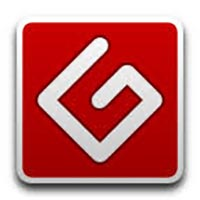
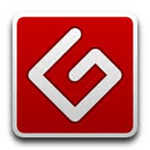
Made images smaller
Inlined Font Awesome
Added Aria Labels to social links

diff --git a/assets/css/main.css b/assets/css/main.css
@@ -26,6 +26,62 @@ img[data-srcset] {
   margin: auto; }
 
 @font-face {
+  font-family: "Font Awesome 5 Brands";
+  font-style: normal;
+  font-weight: normal;
+  font-display: auto;
+  src: url(https://use.fontawesome.com/releases/v5.8.1/webfonts/fa-brands-400.eot);
+  src: url(https://use.fontawesome.com/releases/v5.8.1/webfonts/fa-brands-400.eot#iefix) format("embedded-opentype"), url(https://use.fontawesome.com/releases/v5.8.1/webfonts/fa-brands-400.woff2) format("woff2"), url(https://use.fontawesome.com/releases/v5.8.1/webfonts/fa-brands-400.woff) format("woff"), url(https://use.fontawesome.com/releases/v5.8.1/webfonts/fa-brands-400.ttf) format("truetype"), url(https://use.fontawesome.com/releases/v5.8.1/webfonts/fa-brands-400.svg#fontawesome) format("svg"); }
+@font-face {
+  font-family: "Font Awesome 5 Free";
+  font-style: normal;
+  font-weight: 400;
+  font-display: auto;
+  src: url(https://use.fontawesome.com/releases/v5.8.1/webfonts/fa-regular-400.eot);
+  src: url(https://use.fontawesome.com/releases/v5.8.1/webfonts/fa-regular-400.eot#iefix) format("embedded-opentype"), url(https://use.fontawesome.com/releases/v5.8.1/webfonts/fa-regular-400.woff2) format("woff2"), url(https://use.fontawesome.com/releases/v5.8.1/webfonts/fa-regular-400.woff) format("woff"), url(https://use.fontawesome.com/releases/v5.8.1/webfonts/fa-regular-400.ttf) format("truetype"), url(https://use.fontawesome.com/releases/v5.8.1/webfonts/fa-regular-400.svg#fontawesome) format("svg"); }
+@font-face {
+  font-family: "Font Awesome 5 Free";
+  font-style: normal;
+  font-weight: 900;
+  font-display: auto;
+  src: url(https://use.fontawesome.com/releases/v5.8.1/webfonts/fa-solid-900.eot);
+  src: url(https://use.fontawesome.com/releases/v5.8.1/webfonts/fa-solid-900.eot#iefix) format("embedded-opentype"), url(https://use.fontawesome.com/releases/v5.8.1/webfonts/fa-solid-900.woff2) format("woff2"), url(https://use.fontawesome.com/releases/v5.8.1/webfonts/fa-solid-900.woff) format("woff"), url(https://use.fontawesome.com/releases/v5.8.1/webfonts/fa-solid-900.ttf) format("truetype"), url(https://use.fontawesome.com/releases/v5.8.1/webfonts/fa-solid-900.svg#fontawesome) format("svg"); }
+@font-face {
+  font-family: 'Material Icons';
+  font-style: normal;
+  font-weight: 400;
+  src: url(https://fonts.gstatic.com/s/materialicons/v48/flUhRq6tzZclQEJ-Vdg-IuiaDsNc.woff2) format("woff2"); }
+.fab, .fas {
+  -moz-osx-font-smoothing: grayscale;
+  -webkit-font-smoothing: antialiased;
+  display: inline-block;
+  font-style: normal;
+  font-variant: normal;
+  text-rendering: auto;
+  line-height: 1; }
+
+.fa-bars:before {
+  content: "\f0c9"; }
+
+.fa-behance-square:before {
+  content: "\f1b5"; }
+
+.fa-github:before {
+  content: "\f09b"; }
+
+.fa-linkedin:before {
+  content: "\f08c"; }
+
+.fab {
+  font-family: "Font Awesome 5 Brands"; }
+
+.fas {
+  font-family: "Font Awesome 5 Free"; }
+
+.fas {
+  font-weight: 900; }
+
+@font-face {
   font-display: swap;
   font-family: Rammetto;
   src: url(../webfonts/RammettoOne-Regular.ttf) format("trueType"); }

diff --git a/assets/css/_fonts.scss b/assets/css/_fonts.scss
@@ -1,3 +1,15 @@
+@font-face{font-family:"Font Awesome 5 Brands";font-style:normal;font-weight:normal;font-display:auto;src:url(https://use.fontawesome.com/releases/v5.8.1/webfonts/fa-brands-400.eot);src:url(https://use.fontawesome.com/releases/v5.8.1/webfonts/fa-brands-400.eot#iefix) format("embedded-opentype"),url(https://use.fontawesome.com/releases/v5.8.1/webfonts/fa-brands-400.woff2) format("woff2"),url(https://use.fontawesome.com/releases/v5.8.1/webfonts/fa-brands-400.woff) format("woff"),url(https://use.fontawesome.com/releases/v5.8.1/webfonts/fa-brands-400.ttf) format("truetype"),url(https://use.fontawesome.com/releases/v5.8.1/webfonts/fa-brands-400.svg#fontawesome) format("svg");}
+@font-face{font-family:"Font Awesome 5 Free";font-style:normal;font-weight:400;font-display:auto;src:url(https://use.fontawesome.com/releases/v5.8.1/webfonts/fa-regular-400.eot);src:url(https://use.fontawesome.com/releases/v5.8.1/webfonts/fa-regular-400.eot#iefix) format("embedded-opentype"),url(https://use.fontawesome.com/releases/v5.8.1/webfonts/fa-regular-400.woff2) format("woff2"),url(https://use.fontawesome.com/releases/v5.8.1/webfonts/fa-regular-400.woff) format("woff"),url(https://use.fontawesome.com/releases/v5.8.1/webfonts/fa-regular-400.ttf) format("truetype"),url(https://use.fontawesome.com/releases/v5.8.1/webfonts/fa-regular-400.svg#fontawesome) format("svg");}
+@font-face{font-family:"Font Awesome 5 Free";font-style:normal;font-weight:900;font-display:auto;src:url(https://use.fontawesome.com/releases/v5.8.1/webfonts/fa-solid-900.eot);src:url(https://use.fontawesome.com/releases/v5.8.1/webfonts/fa-solid-900.eot#iefix) format("embedded-opentype"),url(https://use.fontawesome.com/releases/v5.8.1/webfonts/fa-solid-900.woff2) format("woff2"),url(https://use.fontawesome.com/releases/v5.8.1/webfonts/fa-solid-900.woff) format("woff"),url(https://use.fontawesome.com/releases/v5.8.1/webfonts/fa-solid-900.ttf) format("truetype"),url(https://use.fontawesome.com/releases/v5.8.1/webfonts/fa-solid-900.svg#fontawesome) format("svg");}
+@font-face{font-family:'Material Icons';font-style:normal;font-weight:400;src:url(https://fonts.gstatic.com/s/materialicons/v48/flUhRq6tzZclQEJ-Vdg-IuiaDsNc.woff2) format('woff2');}
+.fab,.fas{-moz-osx-font-smoothing:grayscale;-webkit-font-smoothing:antialiased;display:inline-block;font-style:normal;font-variant:normal;text-rendering:auto;line-height:1;}
+.fa-bars:before{content:"\f0c9";}
+.fa-behance-square:before{content:"\f1b5";}
+.fa-github:before{content:"\f09b";}
+.fa-linkedin:before{content:"\f08c";}
+.fab{font-family:"Font Awesome 5 Brands";}
+.fas{font-family:"Font Awesome 5 Free";}
+.fas{font-weight:900;}
 @font-face {
   font-display: swap;
   font-family: Rammetto;

diff --git a/index.php b/index.php
@@ -17,8 +17,6 @@
 		
 		<link rel="stylesheet" href="assets/css/main.css">
 		
-		<link rel="stylesheet" href="https://use.fontawesome.com/releases/v5.8.1/css/all.css" integrity="sha384-50oBUHEmvpQ+1lW4y57PTFmhCaXp0ML5d60M1M7uH2+nqUivzIebhndOJK28anvf" crossorigin="anonymous">
-		
 		<link href="https://fonts.googleapis.com/css?family=Roboto+Slab:700|Roboto:300,400&display=swap" rel="stylesheet">
 		
 		<link href="https://fonts.googleapis.com/icon?family=Material+Icons&font-display=block" rel="stylesheet">
@@ -252,16 +250,16 @@
 							&copy; <?php echo date("Y"); ?> Joe Bailey. All rights reserved.
 						</div>
 						<div class="social">
-							<a title="Twitter" href="https://twitter.com/joebaileyphoto" rel="noreferrer" target="_blank">
+							<a title="Twitter" aria-label="Twitter Social Profile Link" href="https://twitter.com/joebaileyphoto" rel="noreferrer" target="_blank">
 								<i class="fab fa-twitter"></i>
 							</a>
-							<a title="LinkedIn" href="https://www.linkedin.com/in/joe-bailey-b68b17171/" rel="noreferrer" target="_blank">
+							<a title="LinkedIn" aria-label="LinkedIn Social Profile Link" href="https://www.linkedin.com/in/joe-bailey-b68b17171/" rel="noreferrer" target="_blank">
 								<i class="fab fa-linkedin"></i>
 							</a>
-							<a title="Behance" href="https://www.behance.net/joebailey26" rel="noreferrer" target="_blank">
+							<a title="Behance" aria-label="Behance Social Profile Link" href="https://www.behance.net/joebailey26" rel="noreferrer" target="_blank">
 								<i class="fab fa-behance-square"></i>
 							</a>
-							<a title="GitHub" href="https://github.com/joebailey26" rel="noreferrer" target="_blank">
+							<a title="GitHub" aria-label="GitHub Social Profile Link" href="https://github.com/joebailey26" rel="noreferrer" target="_blank">
 								<i class="fab fa-github"></i>
 							</a>
 						</div>
